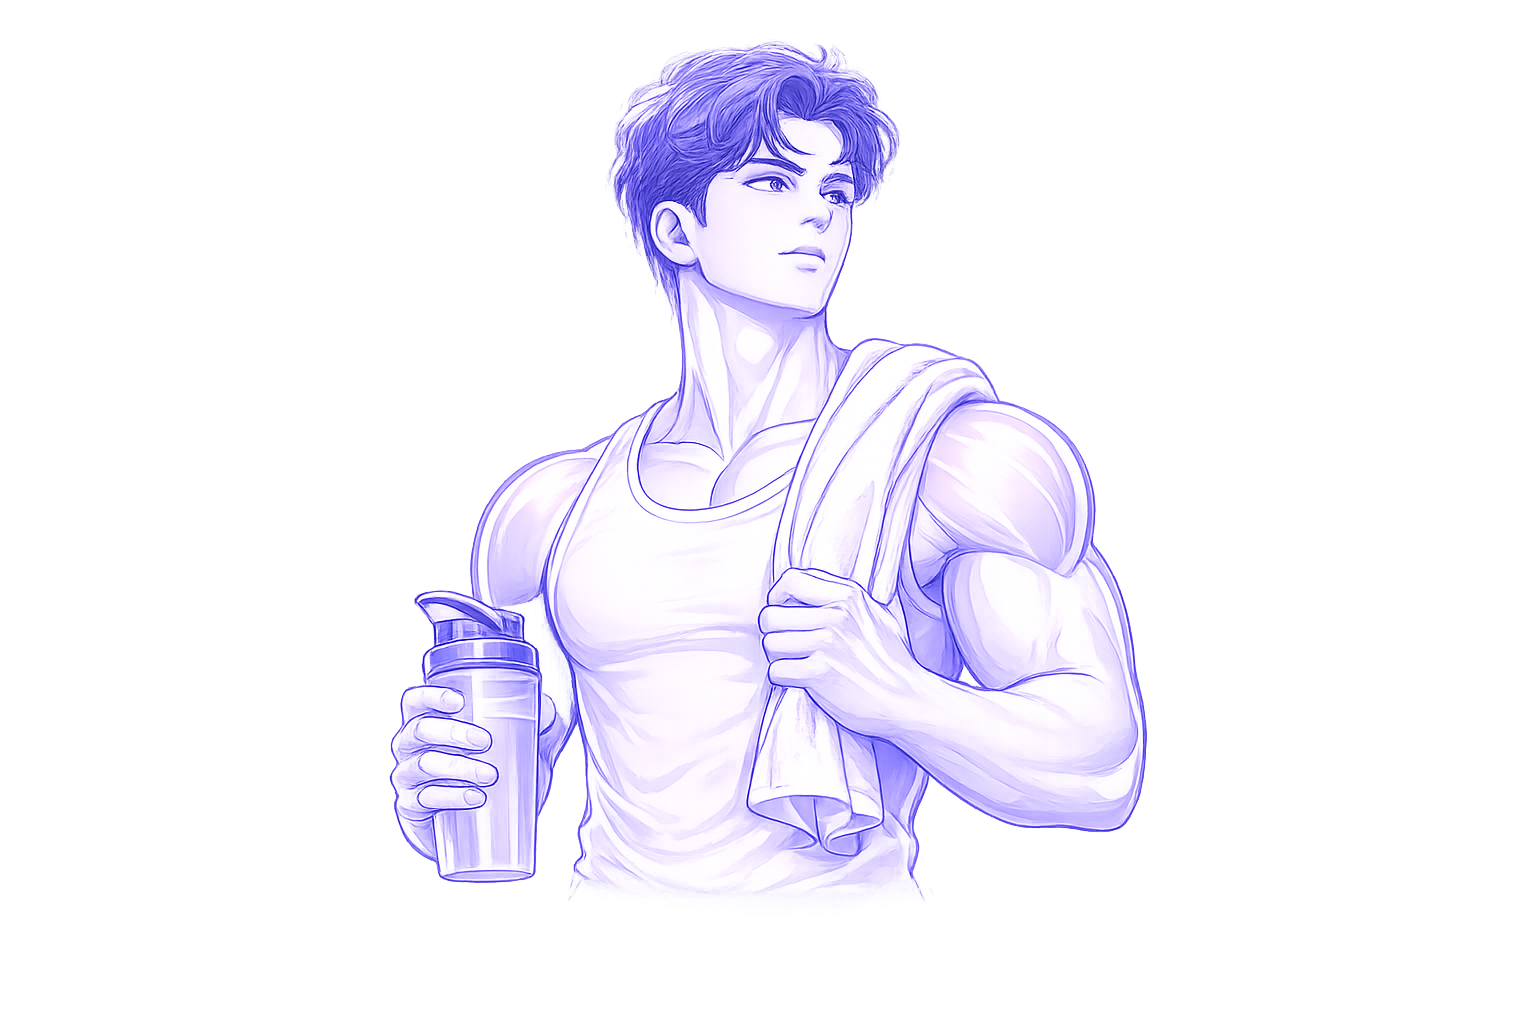
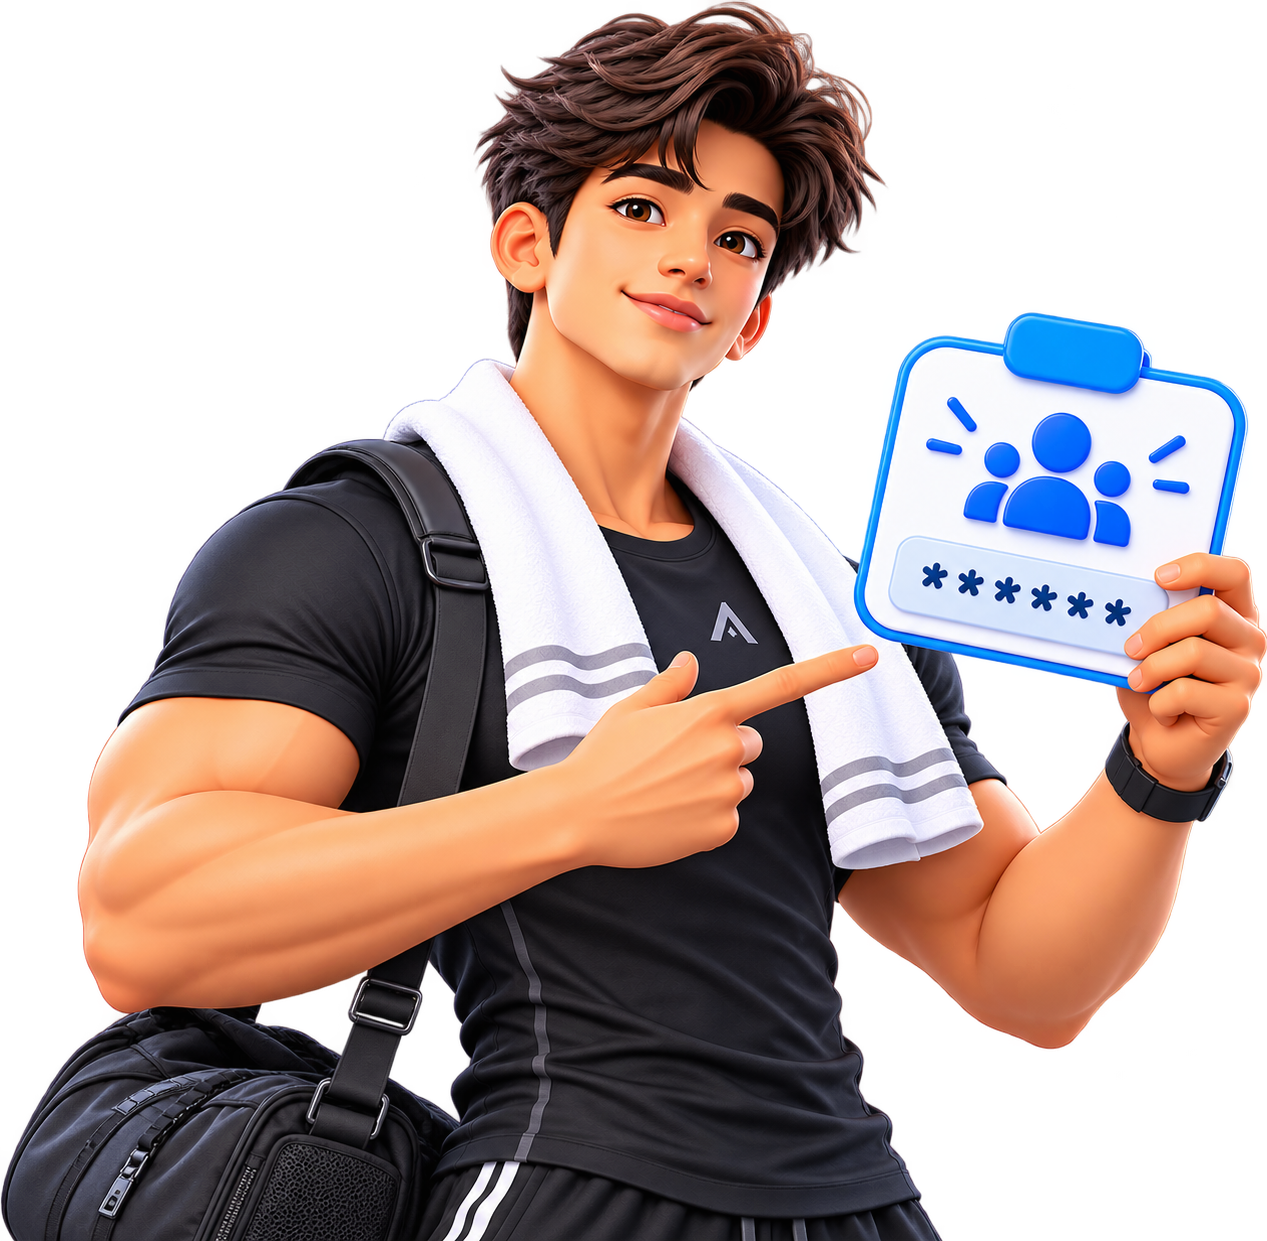
fix(auth): make invitation code redemption idempotent and resolve first-time login activation bug (v1.1.4+40)

diff --git a/gymos_web/lib/core/repository/gym_repository.dart b/gymos_web/lib/core/repository/gym_repository.dart
@@ -3742,14 +3742,36 @@ class GymRepository extends ChangeNotifier {
     required String name,
     required String phone,
     required bool isStaff,
+    bool forceRegenerate = false,
   }) async {
-    final code = _generateRandomCode();
     if (!SupabaseService.isInitialized) {
       throw Exception('Supabase client is not initialized.');
     }
     if (!_isValidUUID(recordId)) {
       throw Exception('Invalid member/staff ID format.');
     }
+
+    // Reuse existing valid active/pending invitation if present unless forceRegenerate is true
+    if (!forceRegenerate) {
+      try {
+        final existing = await SupabaseService.client
+            .from('invitations')
+            .select('invitation_code')
+            .eq(isStaff ? 'staff_id' : 'member_id', recordId)
+            .eq('code_used', false)
+            .eq('status', 'Pending')
+            .order('created_at', ascending: false)
+            .limit(1)
+            .maybeSingle();
+        if (existing != null && (existing['invitation_code']?.toString().isNotEmpty ?? false)) {
+          return existing['invitation_code'].toString();
+        }
+      } catch (e) {
+        debugPrint('Check existing invitation notice: $e');
+      }
+    }
+
+    final code = _generateRandomCode();
     final gymId = _storage.getGymInfo()?['id'];
     final ownerId = SupabaseService.client.auth.currentUser?.id;
 
@@ -4048,7 +4070,8 @@ class GymRepository extends ChangeNotifier {
   }
 
   String _generateRandomCode() {
-    const chars = 'ABCDEFGHIJKLMNOPQRSTUVWXYZabcdefghijklmnopqrstuvwxyz0123456789';
+    // Avoid ambiguous characters (0, O, 1, I, l) to prevent typing mistakes on mobile
+    const chars = '23456789ABCDEFGHJKLMNPQRSTUVWXYZabcdefghijkmnopqrstuvwxyz';
     final rnd = Random.secure();
     return List.generate(8, (index) => chars[rnd.nextInt(chars.length)]).join();
   }

diff --git a/lib/core/repository/gym_repository.dart b/lib/core/repository/gym_repository.dart
@@ -3774,14 +3774,36 @@ class GymRepository extends ChangeNotifier {
     required String name,
     required String phone,
     required bool isStaff,
+    bool forceRegenerate = false,
   }) async {
-    final code = _generateRandomCode();
     if (!SupabaseService.isInitialized) {
       throw Exception('Supabase client is not initialized.');
     }
     if (!_isValidUUID(recordId)) {
       throw Exception('Invalid member/staff ID format.');
     }
+
+    // Reuse existing valid active/pending invitation if present unless forceRegenerate is true
+    if (!forceRegenerate) {
+      try {
+        final existing = await SupabaseService.client
+            .from('invitations')
+            .select('invitation_code')
+            .eq(isStaff ? 'staff_id' : 'member_id', recordId)
+            .eq('code_used', false)
+            .eq('status', 'Pending')
+            .order('created_at', ascending: false)
+            .limit(1)
+            .maybeSingle();
+        if (existing != null && (existing['invitation_code']?.toString().isNotEmpty ?? false)) {
+          return existing['invitation_code'].toString();
+        }
+      } catch (e) {
+        debugPrint('Check existing invitation notice: $e');
+      }
+    }
+
+    final code = _generateRandomCode();
     final gymId = _storage.getGymInfo()?['id'];
     final ownerId = SupabaseService.client.auth.currentUser?.id;
 
@@ -4080,7 +4102,8 @@ class GymRepository extends ChangeNotifier {
   }
 
   String _generateRandomCode() {
-    const chars = 'ABCDEFGHIJKLMNOPQRSTUVWXYZabcdefghijklmnopqrstuvwxyz0123456789';
+    // Avoid ambiguous characters (0, O, 1, I, l) to prevent typing mistakes on mobile
+    const chars = '23456789ABCDEFGHJKLMNPQRSTUVWXYZabcdefghijkmnopqrstuvwxyz';
     final rnd = Random.secure();
     return List.generate(8, (index) => chars[rnd.nextInt(chars.length)]).join();
   }

diff --git a/gymos_web/lib/features/authentication/login_screen.dart b/gymos_web/lib/features/authentication/login_screen.dart
@@ -179,12 +179,26 @@ class _LoginScreenState extends State<LoginScreen> {
 
     final selectedRole = authVm.selectedRole ?? (widget.role == 'Gym Owner' ? 'owner' : widget.role == 'Gym Staff' ? 'staff' : 'member');
 
-    final matchingAssocs = authVm.userAssociations.where((a) {
+    var matchingAssocs = authVm.userAssociations.where((a) {
       if (selectedRole == 'owner') return a.role == UserRole.owner;
       if (selectedRole == 'staff') return a.role == UserRole.staff;
       if (selectedRole == 'member') return a.role == UserRole.member;
       return true;
     }).toList();
+
+    // If matchingAssocs is empty right after login/social sign-in, re-sync associations once
+    // to give database auto-link triggers time to finish
+    if (matchingAssocs.isEmpty && (selectedRole == 'member' || selectedRole == 'staff')) {
+      await authVm.loadCurrentProfile();
+      matchingAssocs = authVm.userAssociations.where((a) {
+        if (selectedRole == 'owner') return a.role == UserRole.owner;
+        if (selectedRole == 'staff') return a.role == UserRole.staff;
+        if (selectedRole == 'member') return a.role == UserRole.member;
+        return true;
+      }).toList();
+    }
+
+    if (!mounted) return;
 
     if (matchingAssocs.length > 1) {
       Navigator.pushAndRemoveUntil(

diff --git a/lib/features/authentication/login_screen.dart b/lib/features/authentication/login_screen.dart
@@ -180,12 +180,26 @@ class _LoginScreenState extends State<LoginScreen> {
 
     final selectedRole = authVm.selectedRole ?? (widget.role == 'Gym Owner' ? 'owner' : widget.role == 'Gym Staff' ? 'staff' : 'member');
 
-    final matchingAssocs = authVm.userAssociations.where((a) {
+    var matchingAssocs = authVm.userAssociations.where((a) {
       if (selectedRole == 'owner') return a.role == UserRole.owner;
       if (selectedRole == 'staff') return a.role == UserRole.staff;
       if (selectedRole == 'member') return a.role == UserRole.member;
       return true;
     }).toList();
+
+    // If matchingAssocs is empty right after login/social sign-in, re-sync associations once
+    // to give database auto-link triggers time to finish
+    if (matchingAssocs.isEmpty && (selectedRole == 'member' || selectedRole == 'staff')) {
+      await authVm.loadCurrentProfile();
+      matchingAssocs = authVm.userAssociations.where((a) {
+        if (selectedRole == 'owner') return a.role == UserRole.owner;
+        if (selectedRole == 'staff') return a.role == UserRole.staff;
+        if (selectedRole == 'member') return a.role == UserRole.member;
+        return true;
+      }).toList();
+    }
+
+    if (!mounted) return;
 
     if (matchingAssocs.length > 1) {
       Navigator.pushAndRemoveUntil(

diff --git a/gymos_web/lib/features/authentication/auth_viewmodel.dart b/gymos_web/lib/features/authentication/auth_viewmodel.dart
@@ -846,7 +846,12 @@ class AuthViewModel extends ChangeNotifier {
       final uid = profile?.id ?? authUser?.id;
       if (uid != null) {
         // Fetch associations
-        final allAssociations = await _authService.getUserGymAssociations(uid);
+        var allAssociations = await _authService.getUserGymAssociations(uid);
+        if (allAssociations != null && allAssociations.isEmpty && (_selectedRole == 'member' || _selectedRole == 'staff')) {
+          // Allow asynchronous database triggers (e.g. handle_auto_link_member_on_auth_user) a brief window to complete on first-time signup/login
+          await Future.delayed(const Duration(milliseconds: 350));
+          allAssociations = await _authService.getUserGymAssociations(uid);
+        }
         if (allAssociations != null) {
           _userAssociations = allAssociations;
         }

diff --git a/lib/features/authentication/auth_viewmodel.dart b/lib/features/authentication/auth_viewmodel.dart
@@ -859,7 +859,12 @@ class AuthViewModel extends ChangeNotifier {
       final uid = profile?.id ?? authUser?.id;
       if (uid != null) {
         // Fetch associations
-        final allAssociations = await _authService.getUserGymAssociations(uid);
+        var allAssociations = await _authService.getUserGymAssociations(uid);
+        if (allAssociations != null && allAssociations.isEmpty && (_selectedRole == 'member' || _selectedRole == 'staff')) {
+          // Allow asynchronous database triggers (e.g. handle_auto_link_member_on_auth_user) a brief window to complete on first-time signup/login
+          await Future.delayed(const Duration(milliseconds: 350));
+          allAssociations = await _authService.getUserGymAssociations(uid);
+        }
         if (allAssociations != null) {
           _userAssociations = allAssociations;
         }

diff --git a/lib/features/members/members_viewmodel.dart b/lib/features/members/members_viewmodel.dart
@@ -556,8 +556,8 @@ class MembersViewModel extends ChangeNotifier {
   // --- Invitations & Activation System ---
   Future<Map<String, dynamic>?> getLatestInvitation(String id) => _repository.getLatestInvitation(id, false);
 
-  Future<String> generateInvitation({required String recordId, required String name, required String phone}) async {
-    final code = await _repository.generateInvitation(recordId: recordId, name: name, phone: phone, isStaff: false);
+  Future<String> generateInvitation({required String recordId, required String name, required String phone, bool forceRegenerate = false}) async {
+    final code = await _repository.generateInvitation(recordId: recordId, name: name, phone: phone, isStaff: false, forceRegenerate: forceRegenerate);
     notifyListeners();
     return code;
   }

diff --git a/lib/features/staff/staff_viewmodel.dart b/lib/features/staff/staff_viewmodel.dart
@@ -466,8 +466,8 @@ class StaffViewModel extends ChangeNotifier {
   // --- Invitations & Activation System ---
   Future<Map<String, dynamic>?> getLatestInvitation(String id) => _repository.getLatestInvitation(id, true);
 
-  Future<String> generateInvitation({required String recordId, required String name, required String phone}) async {
-    final code = await _repository.generateInvitation(recordId: recordId, name: name, phone: phone, isStaff: true);
+  Future<String> generateInvitation({required String recordId, required String name, required String phone, bool forceRegenerate = false}) async {
+    final code = await _repository.generateInvitation(recordId: recordId, name: name, phone: phone, isStaff: true, forceRegenerate: forceRegenerate);
     notifyListeners();
     return code;
   }

diff --git a/gymos_web/lib/features/member_app/screens/member_code_screen.dart b/gymos_web/lib/features/member_app/screens/member_code_screen.dart
@@ -84,7 +84,11 @@ class _MemberCodeScreenState extends State<MemberCodeScreen>
         if (roleStr == 'staff') {
           targetScreen = const StaffShell();
         } else {
-          await Provider.of<MemberAppViewModel>(context, listen: false).loadMemberDataFromSupabase();
+          try {
+            await Provider.of<MemberAppViewModel>(context, listen: false).loadMemberDataFromSupabase();
+          } catch (e) {
+            debugPrint('loadMemberDataFromSupabase warning on code redeem: $e');
+          }
           targetScreen = const MemberShell();
         }
 

diff --git a/lib/features/member_app/screens/member_code_screen.dart b/lib/features/member_app/screens/member_code_screen.dart
@@ -84,7 +84,11 @@ class _MemberCodeScreenState extends State<MemberCodeScreen>
         if (roleStr == 'staff') {
           targetScreen = const StaffShell();
         } else {
-          await Provider.of<MemberAppViewModel>(context, listen: false).loadMemberDataFromSupabase();
+          try {
+            await Provider.of<MemberAppViewModel>(context, listen: false).loadMemberDataFromSupabase();
+          } catch (e) {
+            debugPrint('loadMemberDataFromSupabase warning on code redeem: $e');
+          }
           targetScreen = const MemberShell();
         }
 
